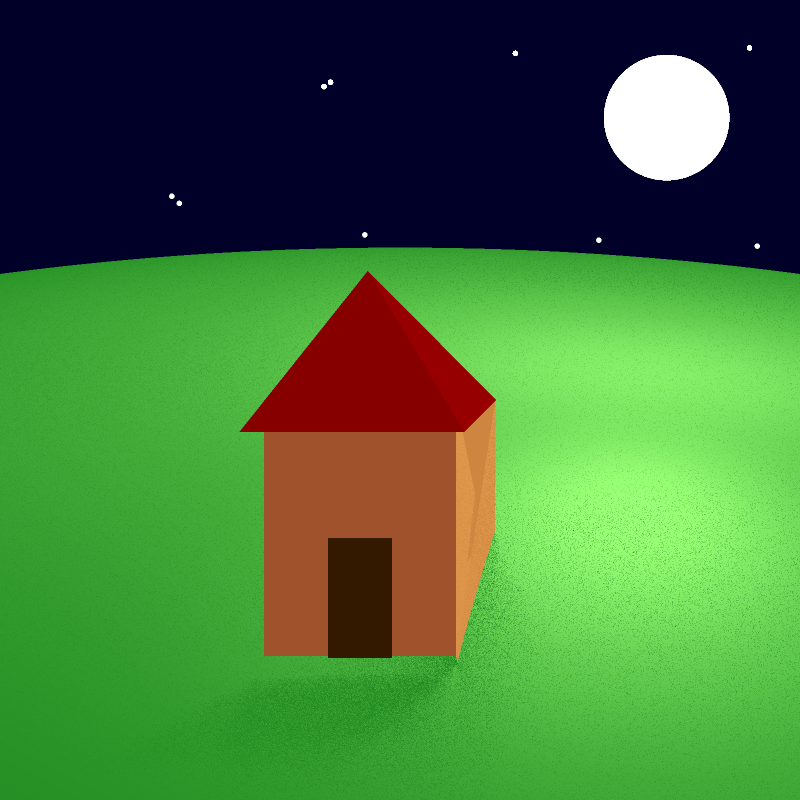
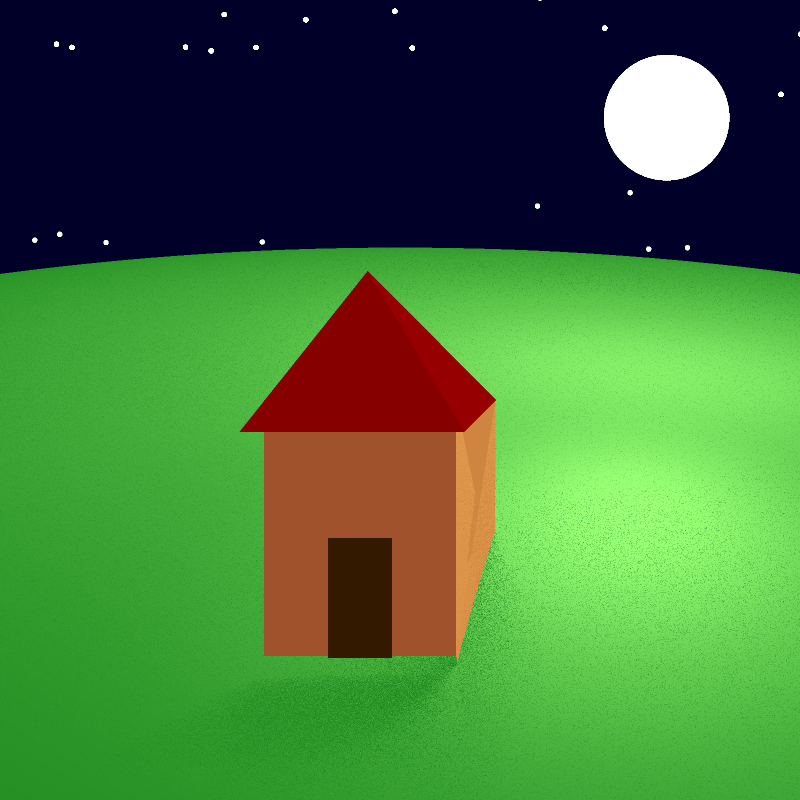
minip2

Changed region(s): [[0.625, 0.625, 0.9375, 0.75], [0.5312, 0.6875, 0.6562, 0.875]]

diff --git a/unittest/renderer/ReflectionRefractionTests.java b/unittest/renderer/ReflectionRefractionTests.java
@@ -601,9 +601,9 @@ public class ReflectionRefractionTests {
                         .setEmission(new Color(135, 0, 0)) // Adjust roof color
                         .setMaterial(new Material().setKd(0.4).setKs(0.3).setShininess(100))
         );
+//stars
 
-
-        int numStars = (int) (Math.random() * 70) + 80;
+        int numStars = (int) (Math.random() * 101) + 100;
 
         for (int i = 0; i < numStars; i++) {
             // Generate random position within the upper part of the scene
